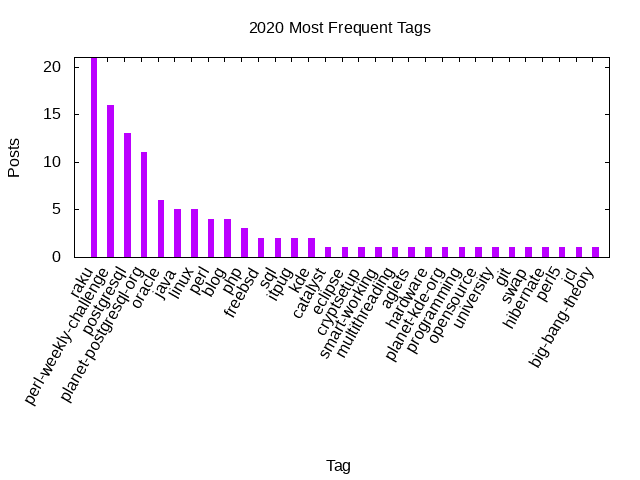
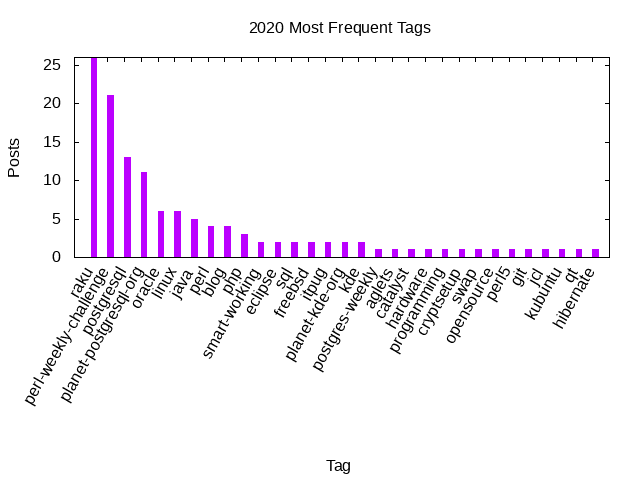
Updated stats

diff --git a/_includes/stats/2020.md b/_includes/stats/2020.md
@@ -1,40 +1,40 @@
 ## 2020 (work in progress)
 
-**54 total posts** have been written on 2020.
-There have been *40 different tags* used, the most
+**60 total posts** have been written on 2020.
+There have been *41 different tags* used, the most
 used popular being (in order of number of posts):
  
-- *raku* (21 posts)  
-- *perl-weekly-challenge* (16 posts)  
+- *raku* (26 posts)  
+- *perl-weekly-challenge* (21 posts)  
 - *postgresql* (13 posts)  
 - *planet-postgresql-org* (11 posts)  
 - *oracle* (6 posts)  
+- *linux* (6 posts)  
 - *java* (5 posts)  
-- *linux* (5 posts)  
 - *perl* (4 posts)  
 - *blog* (4 posts)  
 - *php* (3 posts)  
-- *freebsd* (2 posts)  
+- *smart-working* (2 posts)  
+- *eclipse* (2 posts)  
 - *sql* (2 posts)  
+- *freebsd* (2 posts)  
 - *itpug* (2 posts)  
+- *planet-kde-org* (2 posts)  
 - *kde* (2 posts)  
-- *catalyst* (1 posts)  
-- *eclipse* (1 posts)  
-- *cryptsetup* (1 posts)  
-- *smart-working* (1 posts)  
-- *multithreading* (1 posts)  
+- *postgres-weekly* (1 posts)  
 - *aglets* (1 posts)  
+- *catalyst* (1 posts)  
 - *hardware* (1 posts)  
-- *planet-kde-org* (1 posts)  
 - *programming* (1 posts)  
-- *opensource* (1 posts)  
-- *university* (1 posts)  
-- *git* (1 posts)  
+- *cryptsetup* (1 posts)  
 - *swap* (1 posts)  
-- *hibernate* (1 posts)  
+- *opensource* (1 posts)  
 - *perl5* (1 posts)  
+- *git* (1 posts)  
 - *jcl* (1 posts)  
-- *big-bang-theory* (1 posts).<br/>
+- *kubuntu* (1 posts)  
+- *qt* (1 posts)  
+- *hibernate* (1 posts).<br/>
 <br/>
 The following is the overall 2020 post ratio by month:
 <br/>
@@ -53,7 +53,7 @@ The following is the overall 2020 post ratio by tag (showing max 30 tags):
 
 <div align="right">
 <small>
-Last generated on 2020-04-29 at 17:13
+Last generated on 2020-05-21 at 8:37
 </small>
 </div>
 
